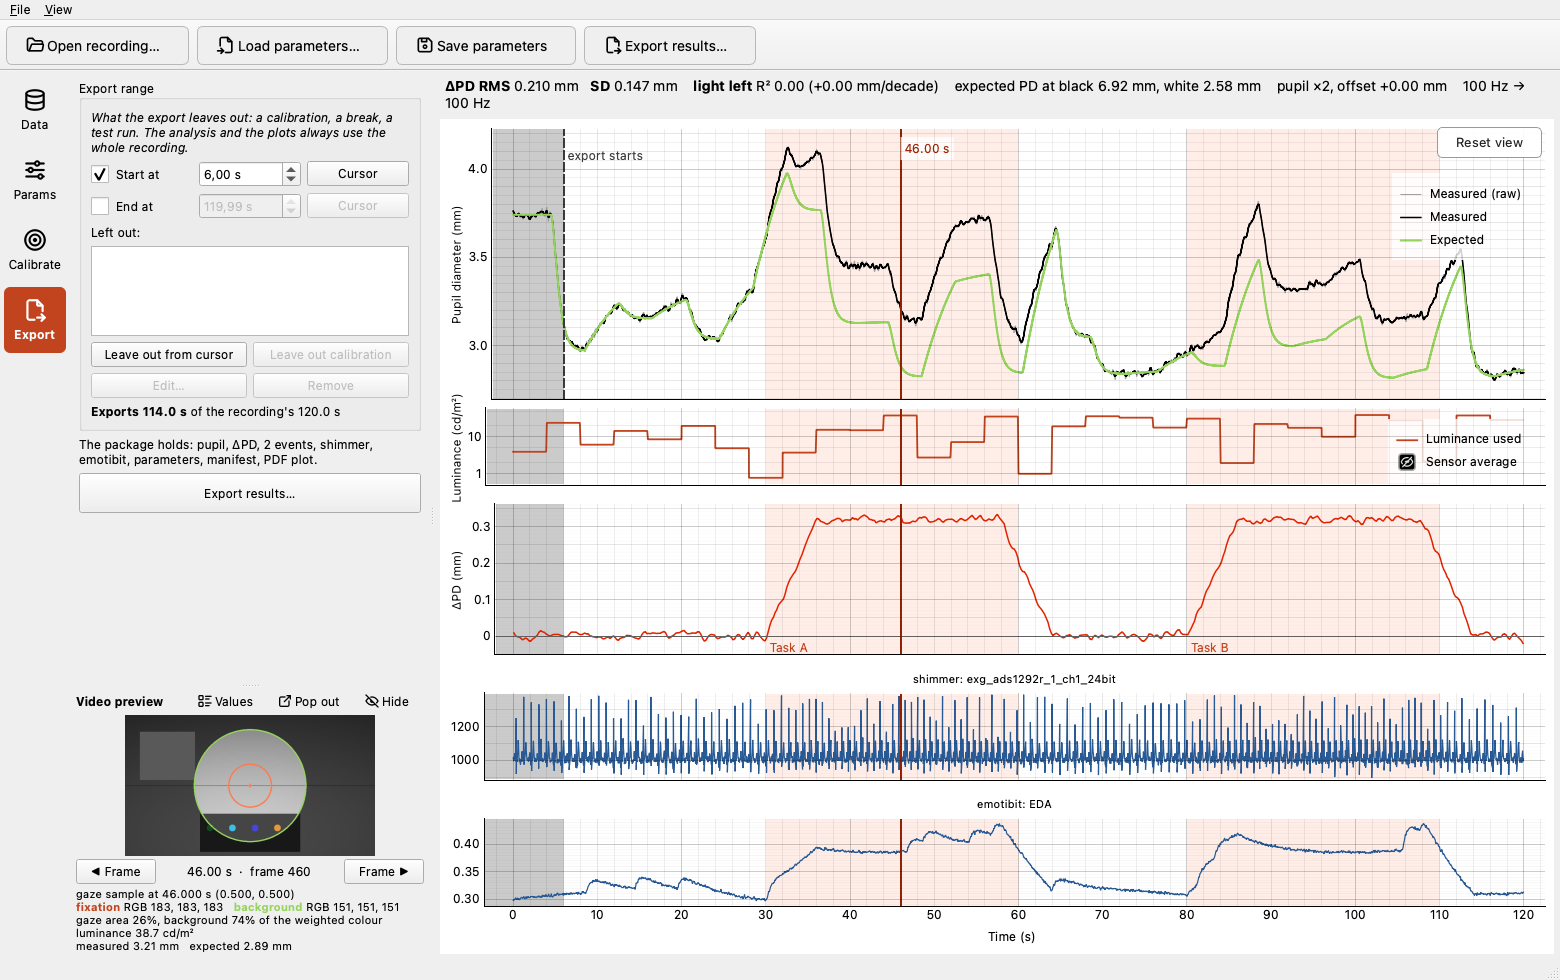
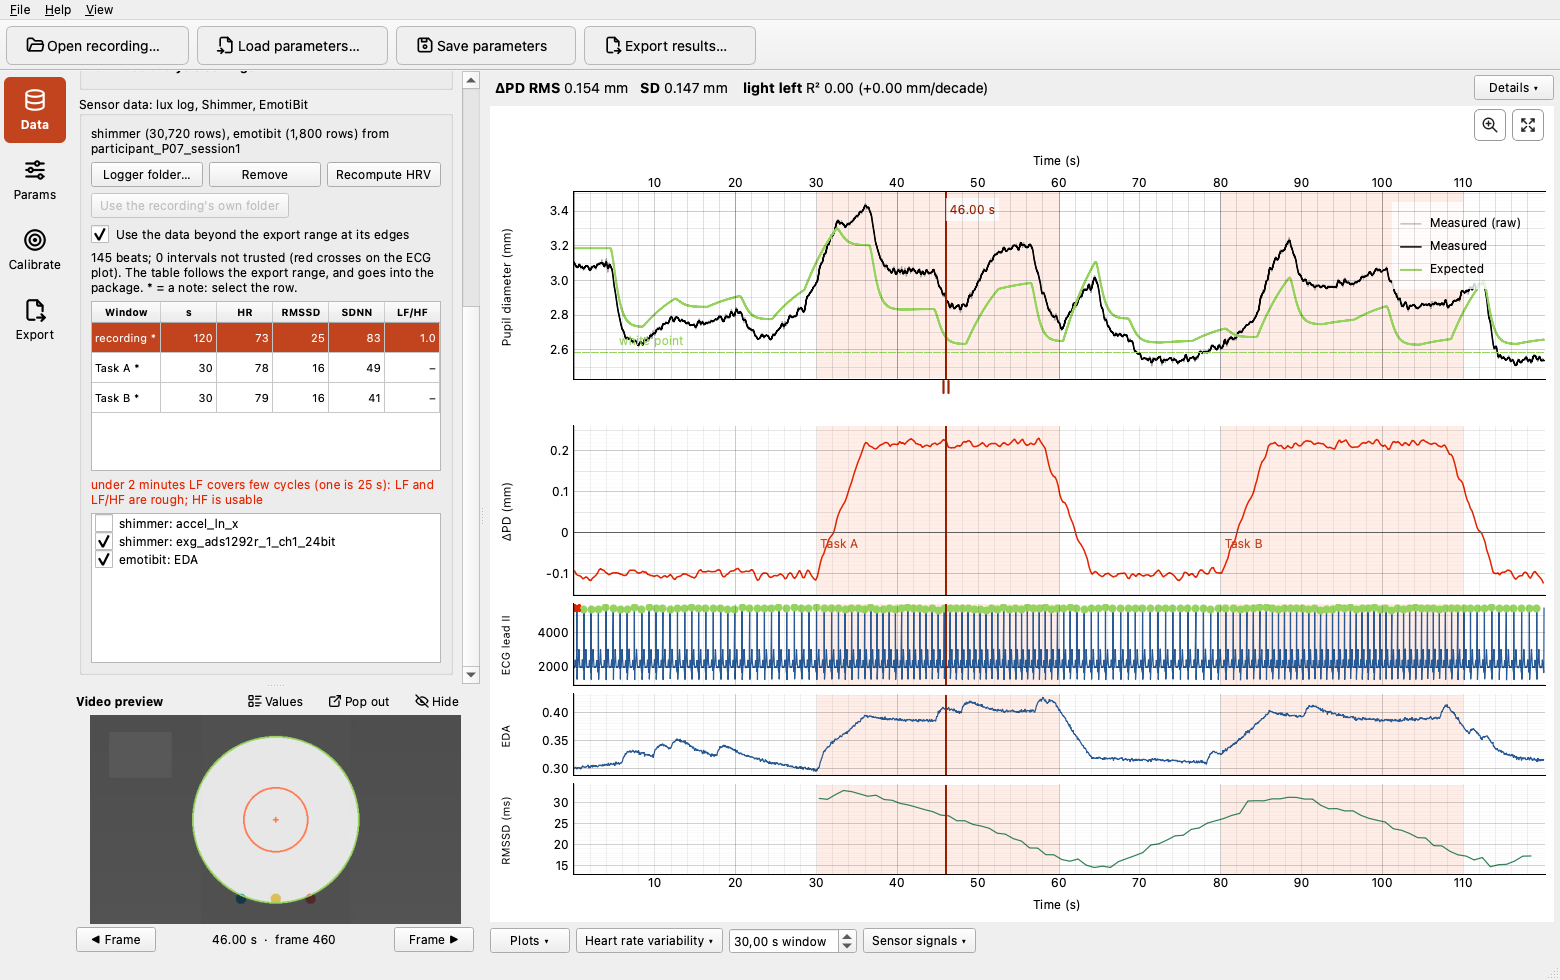
Docs and README screenshots for the new interface
README screenshots: the analysis app with the HRV table, the ECG with its beats, the EDA and the
moving RMSSD (a video of a usable size, so the gaze marks are not oversized), and the sensor logger
with a real-looking ECG. README, first analysis, GUI, logger and output pages follow the interface:
Set-up checklist, revert and the unsaved prompt, the merged Sensor data box, the drop-downs, the
handles, the HRV cut, the 256 Hz default of the Shimmer dialog.

Changed region(s): [[0.0, 0.0612, 1.0, 0.9796], [0.0308, 0.0, 0.0615, 0.0306]]

diff --git a/docs/usage/gui.md b/docs/usage/gui.md
@@ -39,9 +39,9 @@ of the tab are the participant's parameter file.
   so one folder serves both: the session that overlaps the recording is found by its time, the lux log is read from it
   (glasses recordings) and the sensor files are imported (see [Sensor data](#sensor-data-optional)). Give the
   recordings folder once: it is remembered between sessions and used for every recording, so nothing is copied into the
-  recordings; one session folder is used for the open recording only. It is shown in the Recording box. If it holds
-  nothing for a recording, a warning says so (check the folder and the clocks). The same button is in the *Sensor data*
-  and *Lux sensor log* boxes of the Data tab.
+  recordings; one session folder is used for the open recording only. It is shown in the Sensor data box. If it holds
+  nothing for a recording, a warning says so there (check the folder and the clocks). The same button is in the
+  *Sensor data* box of the Data tab, which holds the lux log as one of its inputs.
 - **Forget the logger folder**: go back to the recording's own folder and its `lux` subfolder for the lux logs and
   the sensor files.
 - **Load parameters… / Save parameters / Save parameters as…**: the participant's parameter file (JSON), without
@@ -183,7 +183,7 @@ The **Calibrate** tab depends on the device. A display device (Varjo) has three 
 sensitivity** and **Fit latency and offset**. Glasses with a lux log have the sequence and one fit, **Fit sensitivity
 and offset**, with a note that they have no display photometry (see below). Glasses without a lux log have no steps,
 only a note saying what the sequence would need; their dynamics are set by hand in Params → Participant. Once a fit
-is applied, its step shows the result under its title. The lux sensor group starts with a line saying which route the luminance takes (sensor ×
+is applied, its step shows the result under its title. The lux sensor group starts with a line saying how the luminance is made (sensor ×
 video ratio, or sensor only); the video preview shows the same product for the frame at the cursor, and the weights
 of the gaze circle and the background.
 
@@ -192,18 +192,18 @@ of the gaze circle and the background.
 - **Which plots are shown**: three drop-downs under the plots. **Plots**: **Pupil diameter**, **Luminance**, **Video
   ratio**, **ΔPD**. **Heart rate variability** (once computed): **Heart rate** and **RMSSD**, with the window of the RMSSD. At first the pupil diameter, ΔPD and RMSSD are on. The
   video ratio can only be ticked with a lux sensor and the scene video. **Sensor signals** is the third, with the same
-  choice as the list in the Data tab. The plots that remain share the height, and the time axis is on the last one.
+  choice as the list in the Data tab. The plots that remain share the height; the time axis is on the last one and repeated above the first.
 - **Time axis**: the view fits the whole recording when it opens and follows it while you change parameters. Drag with
   the left mouse button (or the middle one) to **pan** in time, or swipe sideways; **right-click** to zoom out; the
   wheel zooms around the pointer. The time axis stays inside the recording.
-- **Zoom button** (the magnifier, top right of the plots, left of Reset view): while it is pressed, the left button draws a rectangle
+- **Zoom button** (the magnifier, in the bar above the plots, left of Reset view): while it is pressed, the left button draws a rectangle
   and the plots zoom to it (the rectangle is gray), in time and, for the plot you drew on, in value. That plot keeps its value range as you
   move along the time axis; a right click (or Reset view) fits it to the data again. Press the button again to go back
   to panning.
 - **Value axes** cannot be dragged. Unless you zoomed one, each fits the data of the time span in view, so zooming in on
   a part shows that part at full height.
 - All the left axes are of the same width, so the plots line up whatever the numbers beside them.
-- **Reset view** (the four-arrows button in the top right corner of the plots, **View** menu, Ctrl+0, or a double-click on the
+- **Reset view** (the four-arrows button in the bar above the plots, next to the Zoom button, **View** menu, Ctrl+0, or a double-click on the
   plots) shows the whole recording again. The calibration overlay, events and reference lines never stretch the
   value axes.
 - **Handles**: the bars you can move in time (the current video frame, the export start and end, the edges and middle of

diff --git a/docs/getting-started/first-analysis.md b/docs/getting-started/first-analysis.md
@@ -23,8 +23,10 @@ session of the recording is found by its time, the folder is remembered and noth
 cwtool-gui path/to/recording
 ```
 
-or start `cwtool-gui` and use **File → Open recording…**. The recording panel shows the detected device, the
-number of samples and, for the glasses, how many lux readings were found.
+or start `cwtool-gui` and use **File → Open recording…**. The recording panel shows the detected device and the
+number of samples. Under it, the **Set-up** checklist says what the recording still needs before its ΔPD can be trusted
+(for glasses, whether the lux readings were found, which the Sensor data box also says), and each missing item is a
+link to where it is done. **File → Open recent** lists the last recordings.
 
 ## 3. Analyse the scene video
 
@@ -37,7 +39,10 @@ Varjo capture takes under a minute on a 4-core laptop.
 - **Top:** measured pupil (black, grey = lightly smoothed) and expected pupil for the estimated luminance (green).
 - **Bottom:** ΔPD (red), measured minus expected. Positive values mean a pupil larger than light alone explains.
 - Shaded orange regions are events from the event log; click on either plot to move the video preview to that
-  moment.
+  moment, or drag the red handle under the first plot.
+- The plots under the buttons **Plots**, **Heart rate variability** and **Sensor signals** can be switched on and off.
+  Drag to pan in time, press the magnifier to drag a rectangle to zoom to, right-click to zoom out, and the button with
+  four arrows (or Ctrl+0) shows everything again. **Help → Gestures and shortcuts** lists them all.
 
 Every parameter change in the side panel updates the plots immediately.
 
@@ -46,12 +51,15 @@ Every parameter change in the side panel updates the plots immediately.
 For Varjo recordings, enter the display photometry once, then fit the participant's light sensitivity and pupil
 response on the calibration sequence (see [Participant calibration](../usage/calibration.md)) and
 **File → Save parameters**.
-Load the same file for that participant's other recordings.
+Load the same file for that participant's other recordings. **Revert** (Params tab) goes back to the saved values, and the
+app asks before closing or opening another recording with parameters that were changed and not saved.
 
 ## 6. Export
 
-**File → Export results…** writes the pupil, ΔPD and per-event CSVs plus the parameters used
-(see [Output files](../reference/outputs.md)).
+**File → Export results…** (Ctrl+E) writes the pupil, ΔPD and per-event CSVs plus the parameters used
+(see [Output files](../reference/outputs.md)). It runs in the background; the Export tab keeps a link to the folder. With
+sensor data from the [sensor logger](../usage/logger.md), the Shimmer's heart rate variability can be previewed with
+**Compute HRV** in the Data tab and goes into the package ([how it is computed](../processing/hrv.md)).
 
 The same analysis without the GUI:
 

diff --git a/ReadME.md b/ReadME.md
@@ -15,9 +15,9 @@ The luminance is estimated from the eye tracker's scene video and gaze: a circle
 against the rest of the view. On a headset it comes from the display's photometry; with glasses trackers, the
 absolute level comes from a lux sensor worn on the tracker.
 
-![The analysis app on a synthetic recording: measured and expected pupil, luminance, ΔPD with two task phases, and the ECG and EDA from the sensor logger](docs/images/analysis-app.png)
+![The analysis app on a synthetic recording: measured and expected pupil, ΔPD with two task phases, the ECG with its heartbeats, the EDA and the moving RMSSD from the sensor logger, and the heart rate variability table](docs/images/analysis-app.png)
 
-*The analysis app on synthetic data: a task that dilates the pupil twice, the light that changes every few seconds, and the ΔPD that is left once the light is accounted for, with the Shimmer's ECG and the EmotiBit's EDA on the same time axis.*
+*The analysis app on synthetic data: a task that dilates the pupil twice while the light changes every few seconds, the ΔPD that is left once the light is accounted for, and the sensor logger's data on the same time axis: the Shimmer's ECG with the heartbeats found in it, the EmotiBit's EDA and the moving RMSSD, with the heart rate variability of the recording and of each task in the table on the left.*
 
 **Documentation:** https://pignonig.github.io/cognitive_analysis_tool/ covers installation, usage, the device
 formats and every processing step ([Processing at a glance](https://pignonig.github.io/cognitive_analysis_tool/processing/pipeline/)).
@@ -41,8 +41,10 @@ recording; every result from them carries a warning.
 
 **Analysis app** (`cwtool-gui`). Open a recording folder: the scene video is analysed in the background (or loaded
 from its cache), and every parameter change updates the measured and expected pupil and ΔPD plots at once. A video
-preview shows the analysed areas on the scene frame at the cursor. Sensor files from the logger can be shown under
-ΔPD. **Export** writes one package for the participant: pupil, ΔPD, per-event means, lux and sensor files, the
+preview shows the analysed areas on the scene frame at the cursor. The logger's files (the lux log, the Shimmer, the
+EmotiBit) are found in its recordings folder by their time and can be shown under ΔPD; the Shimmer's ECG gives a heart
+rate variability preview (beats, table, heart rate and moving RMSSD). A **Set-up** checklist says what is still missing
+(display photometry, calibration, fits). **Export** writes one package for the participant: pupil, ΔPD, per-event means, lux and sensor files, the
 parameters used and a manifest, all cut to an *export range* that leaves out a calibration, a break or a test run.
 
 **Sensor logger** (`cwtool-logger`). Records the lux sensor, a Shimmer (ECG and more) and an EmotiBit side by side

diff --git a/docs/reference/outputs.md b/docs/reference/outputs.md
@@ -69,7 +69,9 @@ gives the reason.
 `kept_seconds`, `beats`, `trusted_intervals`, `untrusted_percent`, `mean_hr_bpm`, `mean_nn_ms`, `sdnn_ms`, `cvnn`,
 `madnn_ms`, `rmssd_ms`, `pnn50_percent`, `pnn20_percent`, `sd1_ms`, `sd2_ms`, `sd1_sd2`, `lf_ms2`, `hf_ms2`, `lf_hf`, `lfn`,
 `hfn`, `lnhf` and `notes` (empty cells where a measure cannot be given, for example the spectrum in a window under
-1 minute). `_beats.csv` lists every beat kept by the export range:
+1 minute). With an export range the HRV is cut at its markers on the data beyond them (a beat kept after a cut keeps its
+interval from the beat before it); `--hrv-inside-only` (or the box in the app) makes the cut strict, see
+[Heart rate variability](../processing/hrv.md#cutting-at-the-export-range). `_beats.csv` lists every beat kept by the export range:
 `timestamp_unix`, `timestamp_relative`, `rr_ms` (the interval from the previous beat), `rr_trusted` (1 or 0) and
 `r_amplitude_mv`. The method and its limits are in [Heart rate variability](../processing/hrv.md).
 

diff --git a/docs/usage/logger.md b/docs/usage/logger.md
@@ -71,7 +71,8 @@ not correct the drift of the unit's oscillator.
 For the ECG (and the [heart rate variability](../processing/hrv.md) computed from it) choose **256 Hz** (or 512 Hz) in
 the *Sampling rate* box of the add dialog. The logger sets the Shimmer's stream rate and, for the ECG unit, the data
 rate of its two ExG chips to the lowest of 125, 250, 500, 1000 ... samples/s that is not below it, so that every
-streamed sample is a new ECG sample. The default, *As set on the device*, changes nothing. The setting stays on the unit
+streamed sample is a new ECG sample. The box defaults to **256 Hz**, and warns ("too coarse for heart rate variability") when you choose a lower rate;
+*As set on the device* changes nothing. The setting stays on the unit
 until it is switched off (the unit kept it between connections in a test; a power cycle was not tried), and
 Consensys can change it again.
 
